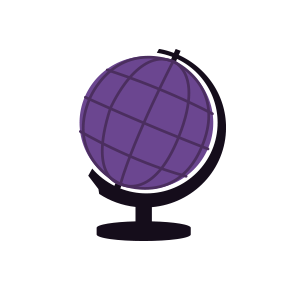
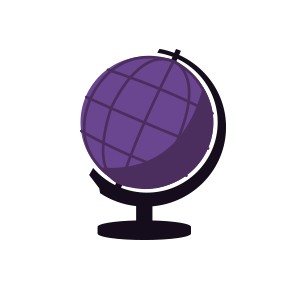
Mediateca, sección telesecundaría. Agregados archivos de iconos centrales de grados y materias de telesecundaria. Delimitadas las areas de las imagenes para que se active la función que muestra la imagen central y que cambia el color de la imagen seleccionada. Agregada la función que muestra los ico

diff --git a/resources/views/viewMediateca/cuerpoTelesecundaria.blade.php b/resources/views/viewMediateca/cuerpoTelesecundaria.blade.php
@@ -16,20 +16,35 @@
 	.bajaFila{
 		position:relative; top:80px; z-index:10;
 	}
+	.primerGradoCentro{
+		position: absolute; top:90%; left:53%; width:30%; height: 75%; z-index:0; visibility: hidden;
+	}
+	.segundoGradoCentro{
+		position: absolute; top:90%; left:53%; width:30%; height: 75%; z-index:0; visibility: hidden;
+	}
+	.tercerGradoCentro{
+		position: absolute; top:90%; left:53%; width:30%; height: 75%; z-index:0; visibility: hidden;
+	}
 </style>
 <script>
 	function muestraImgCentral(idImg){
 		var idImgHover = "{{url('imagenes/mediateca/tsecundaria/Inicio')}}" + "/" + idImg + "Hover.png";
 		document.getElementById(idImg).src = idImgHover;
-		/*var idImgCentro = idImg + "Centro";
-		document.getElementById(idImgCentro).style.visibility = "visible";*/
+		var idImgCentro = "#" + idImg + "Centro";
+		$(idImgCentro).addClass("bounceIn");
+		$(idImgCentro).addClass("animated");
+		$(idImgCentro).css("visibility", "visible");
+		$(idImgCentro).fadeIn();
 		
 	}
 	function ocultaImgCentral(idImg){
 		var idImgHover = "{{url('imagenes/mediateca/tsecundaria/Inicio')}}" + "/" + idImg + ".png";
 		document.getElementById(idImg).src = idImgHover;
-		/*var idImgCentro = idImg + "Centro";
-		document.getElementById(idImgCentro).style.visibility = "hidden";*/
+		var idImgCentro = "#" + idImg + "Centro";
+		$(idImgCentro).css("visibility", "hidden");
+		$(idImgCentro).fadeOut();
+		$(idImgCentro).removeClass("animated");
+		$(idImgCentro).removeClass("bounceIn");
 	}
 </script>
 <div class="col-xs-12 col-sm-12 col-md-12 col-lg-12 text-center textoTitulo bajaFila">
@@ -39,15 +54,21 @@
 </div>
 <div class="col-xs-6 col-sm-6 col-md-6 col-lg-6 col-xs-offset-2 col-sm-offset-2 col-md-offset-2 col-lg-offset-2" style="padding:10%;">
 	<map name="mapaTelesecPrimer">
-		<area alt="" shape="poly" coords="41,347,38,222,149,108,273,73,385,103,341,189,240,184,159,244,137,336,41,347" href="{{url('mediateca/telesecundaria/primergrado')}}" onmouseover="muestraImgCentral('primerGrado')" onmouseout="ocultaImgCentral('primerGrado')">
+		<area alt="primer grado" shape="poly" coords="46.8,442.3,45.6,345.2,94.8,226.8,158.4,156.2,244.8,107.1,328.8,95.8,462.0,128.5,415.2,243.2,337.2,224.3,282.0,230.6,232.8,257.0,199.2,302.4,175.2,349.0,168.0,425.9" href="{{url('mediateca/telesecundaria/primergrado')}}" onmouseover="muestraImgCentral('primerGrado')" onmouseout="ocultaImgCentral('primerGrado')">
 	</map>
 	{{HTML::image('imagenes/mediateca/tsecundaria/Inicio/primerGrado.png','Telesecundaria Primero',['class'=>'telesecPrimero', 'id'=>'primerGrado', 'usemap'=>'#mapaTelesecPrimer'])}}
 	<map name="mapaTelesecSegundo">
-		<area alt="" shape="poly" coords="121,88,167,0,149,253,302,141,311,253,273,349,205,415,149,335,189,284,187,147,121,88" href="{{url('mediateca/telesecundaria/segundogrado')}}" onmouseover="muestraImgCentral('segundoGrado')" onmouseout="ocultaImgCentral('segundoGrado')">
+		<area alt="segundo grado" shape="poly" coords="147.6,144,201.6,1.6,290,72,336.25,142.4,368.75,233.6,383.75,342.4,372.5,396.2,348.75,463.4,276.1,523.6,203,459.8,149,369.6,199.1,328.9,220,287.1,247.2,340.8,238.8,268.8,199.2,187.2" href="{{url('mediateca/telesecundaria/segundogrado')}}" onmouseover="muestraImgCentral('segundoGrado')" onmouseout="ocultaImgCentral('segundoGrado')">
+		<area alt="primer grado" shape="poly" coords="144,140.8,199.2,0,1.2,3.2,2.4,179.2,46.8,132.8,102,120" href="{{url('mediateca/telesecundaria/primergrado')}}" onmouseover="muestraImgCentral('primerGrado')" onmouseout="ocultaImgCentral('primerGrado')">
 	</map>
 	{{HTML::image('imagenes/mediateca/tsecundaria/Inicio/segundoGrado.png','Telesecundaria Segundo',['class'=>'teleSecSegundo', 'id'=>'segundoGrado','usemap'=>'#mapaTelesecSegundo'])}}
 	<map name="mapaTelesecTercero">
-		<area alt="" shape="poly" coords="41,347,38,222,149,108,273,73,385,103,341,189,240,184,159,244,137,336,41,347" href="{{url('mediateca/telesecundaria/tercergrado')}}" onmouseover="muestraImgCentral('tercerGrado')" onmouseout="ocultaImgCentral('tercerGrado')">
+		<area alt="primer grado" shape="poly" coords="25.2,141.6,144,126,141.6,67.2,163.2,0,50.4,1.2,37.2,1.2,27.6,72" href="{{url('mediateca/telesecundaria/primergrado')}}" onmouseover="muestraImgCentral('primerGrado')" onmouseout="ocultaImgCentral('primerGrado')">
+		<area alt="segundo grado" shape="poly" coords="455,2.4,532.5,1.2,531.25,319.2,510,400,400,247.2" href="{{url('mediateca/telesecundaria/segundogrado')}}" onmouseover="muestraImgCentral('segundoGrado')" onmouseout="ocultaImgCentral('segundoGrado')">
+		<area alt="tercer grado" shape="poly" coords="26.4,147.5,144,131.25,164.4,196.25,201.6,248.75,234,271.25,300,291.25,361.2,285,417.6,256.25,487.2,353.75,422.4,397.5,338.4,415,261.6,415,211.2,398.75,134.4,355,84,305,54,258.75" href="{{url('mediateca/telesecundaria/tercergrado')}}" onmouseover="muestraImgCentral('tercerGrado')" onmouseout="ocultaImgCentral('tercerGrado')">
 	</map>
-		{{HTML::image('imagenes/mediateca/tsecundaria/Inicio/tercerGrado.png','Telesecundaria Tercero',['class'=>'telesecTercero', 'id'=>'tercerGrado', 'usemap'=>'#mapaTelesecTercero'])}}
+	{{HTML::image('imagenes/mediateca/tsecundaria/Inicio/tercerGrado.png','Telesecundaria Tercero',['class'=>'telesecTercero', 'id'=>'tercerGrado', 'usemap'=>'#mapaTelesecTercero'])}}
+	{{HTML::image('imagenes/mediateca/tsecundaria/iconoCentral/centralPrimero.png','Telesecundaria central Primero',['class'=>'primerGradoCentro', 'id'=>'primerGradoCentro'])}}
+	{{HTML::image('imagenes/mediateca/tsecundaria/iconoCentral/centralSegundo.png','Telesecundaria central Segundo',['class'=>'segundoGradoCentro', 'id'=>'segundoGradoCentro'])}}
+	{{HTML::image('imagenes/mediateca/tsecundaria/iconoCentral/centralTercero.png','Telesecundaria central Tercero',['class'=>'tercerGradoCentro', 'id'=>'tercerGradoCentro'])}}
 </div>
